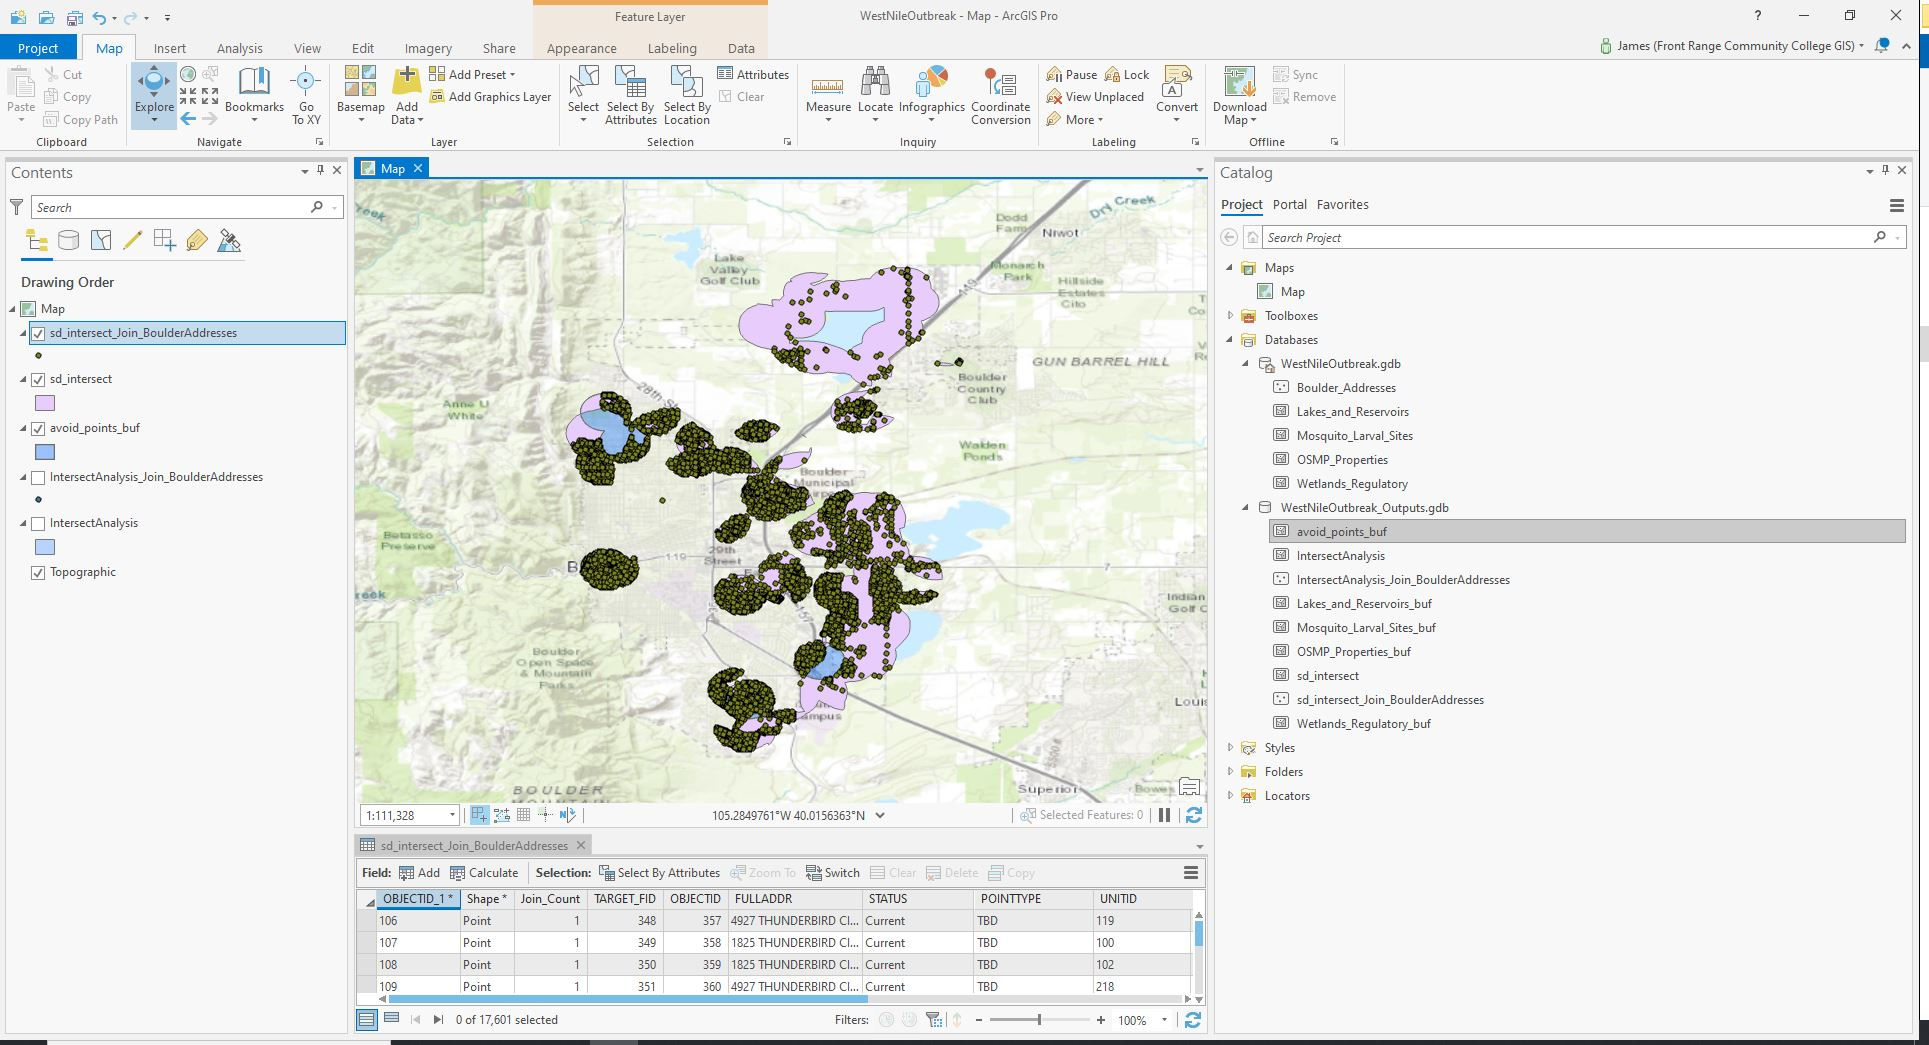
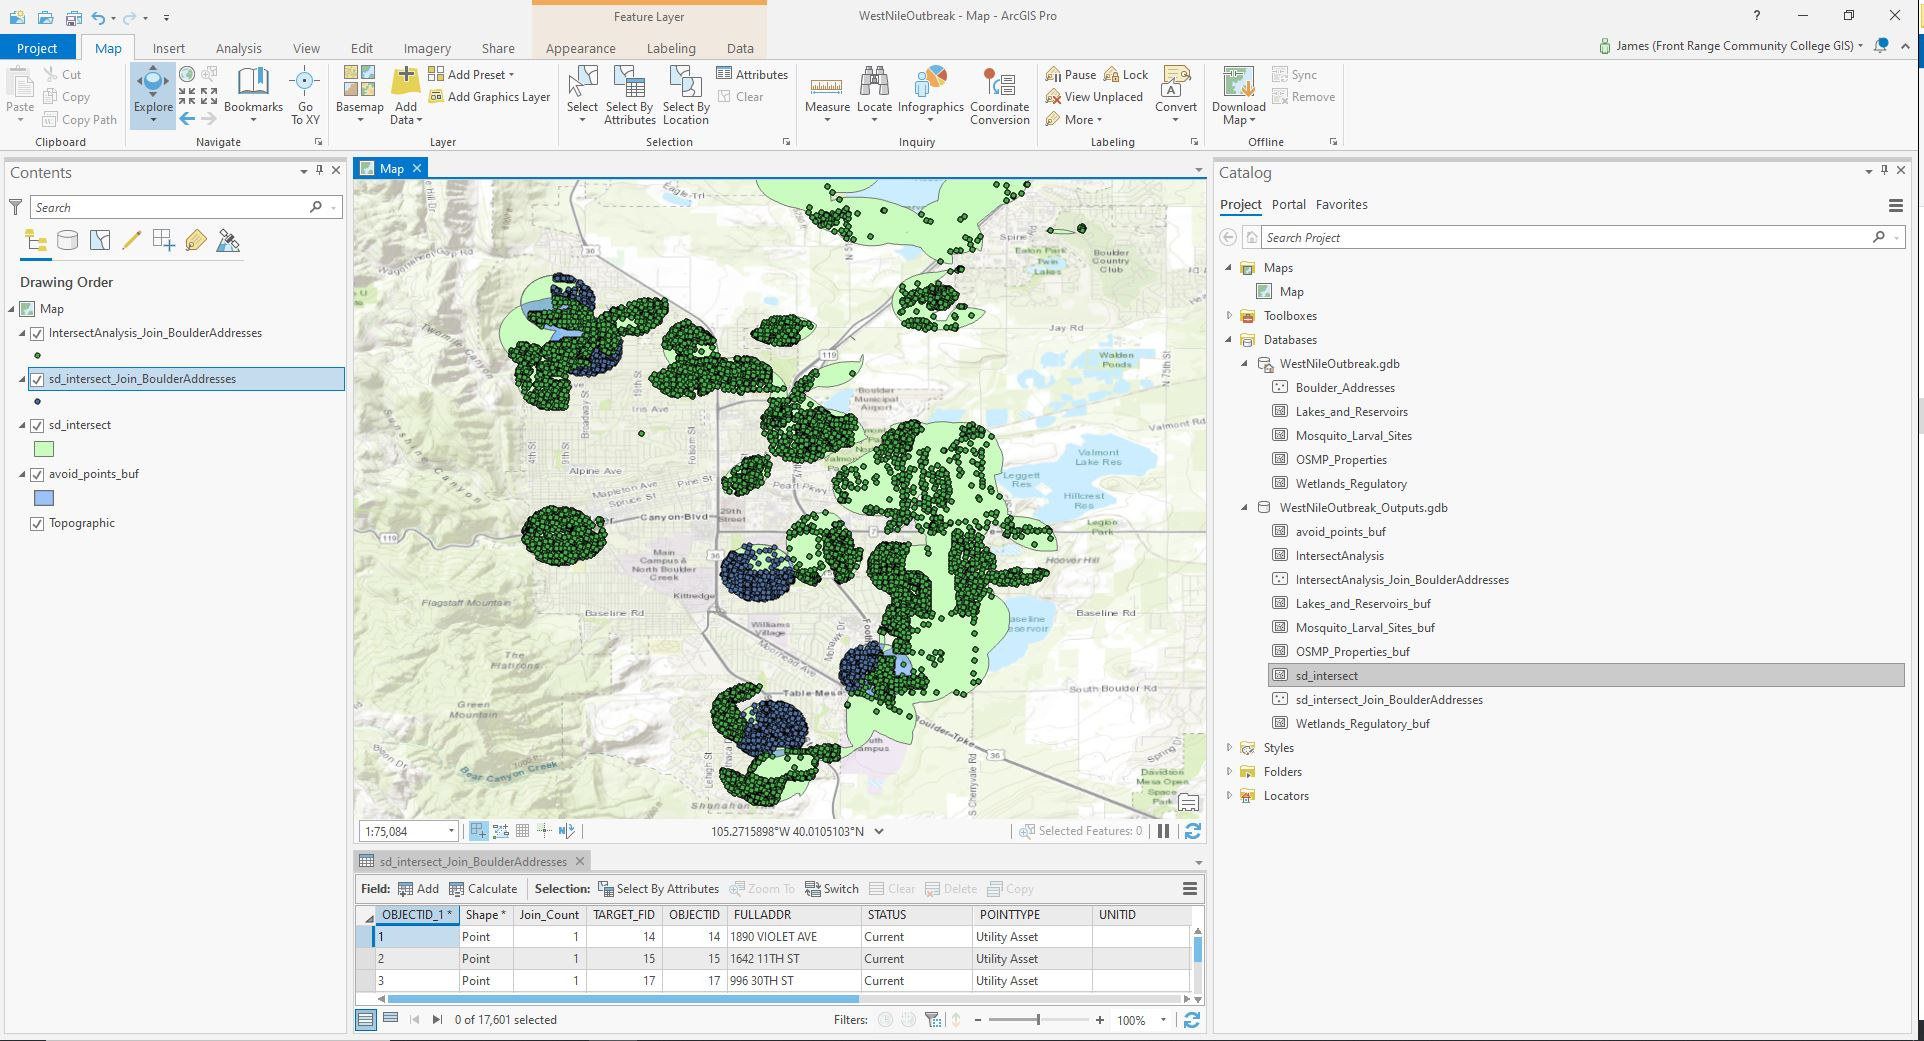
Updated symmetrical difference analysis

diff --git a/lab2.py b/lab2.py
@@ -184,8 +184,8 @@ def run_model():
 
     # Symmetrical Difference (Analysis)
     # https://pro.arcgis.com/en/pro-app/latest/tool-reference/analysis/symmetrical-difference.htm
-    inFeatures = set_path(output_db, 'IntersectAnalysis')
-    updateFeatures = set_path(output_db, 'avoid_points_buf')
+    inFeatures = set_path(output_db, 'avoid_points_buf')
+    updateFeatures = set_path(output_db, 'IntersectAnalysis')
     outFeatureClass = set_path(output_db, 'sd_intersect')
 
     # Execute SymDiff
